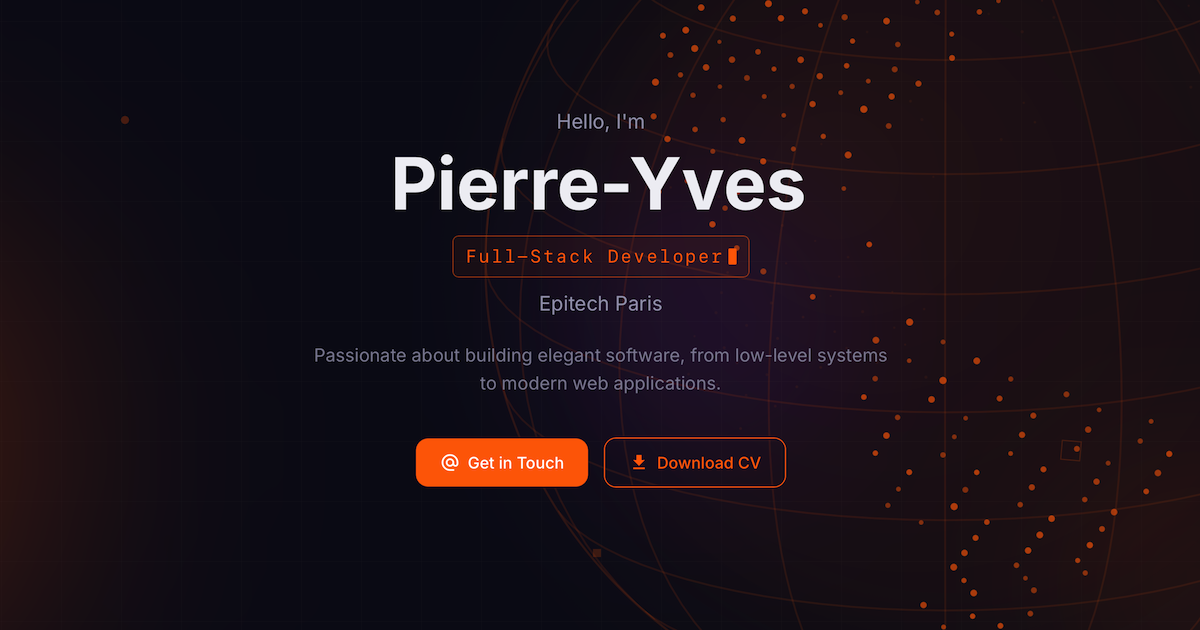
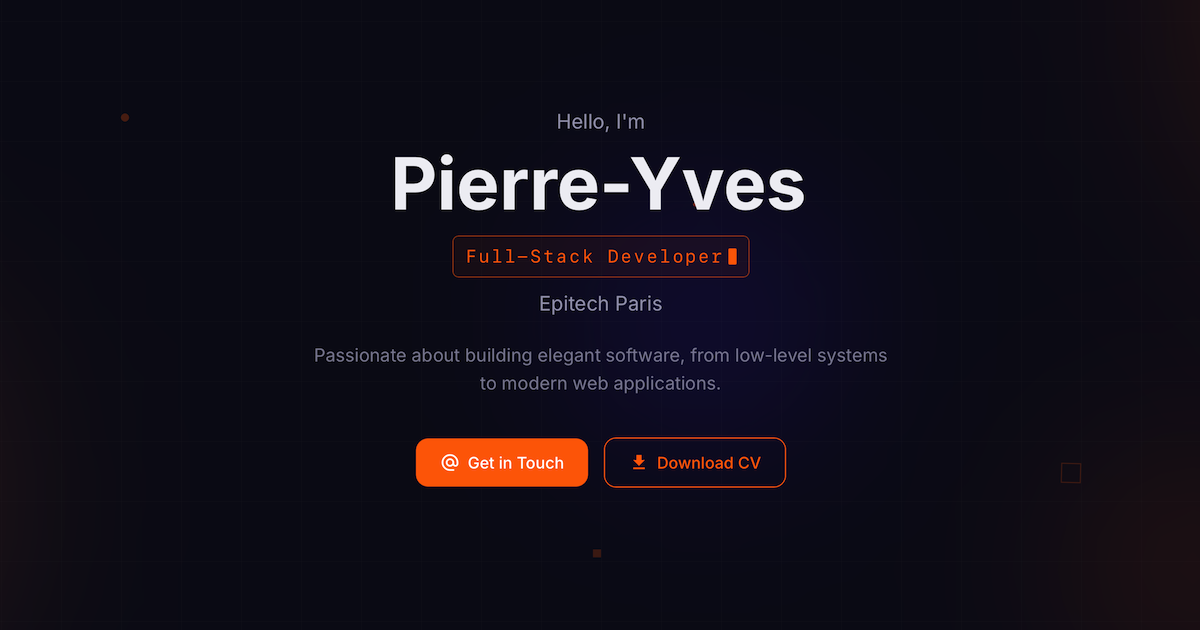
feat: removed globe for now

diff --git a/app/components/HeroBackground.vue b/app/components/HeroBackground.vue
@@ -2,12 +2,12 @@
   <div class="fixed top-0 left-0 w-full h-screen pointer-events-none overflow-hidden" style="z-index: 0;">
     <!-- Gradient orbs - responsive sizes, visible on all screens -->
     <div
-      class="absolute w-[300px] h-[300px] md:w-[400px] md:h-[400px] lg:w-[600px] lg:h-[600px] rounded-full blur-[70px] md:blur-[100px]"
-      style="background: radial-gradient(circle, rgb(255,138,51) 0%, transparent 70%); top: -5%; right: -15%; opacity: 0.3; animation: float-slow 8s ease-in-out infinite;"
+      class="absolute w-[350px] h-[350px] md:w-[500px] md:h-[500px] lg:w-[700px] lg:h-[700px] rounded-full blur-[80px] md:blur-[120px]"
+      style="background: radial-gradient(circle, rgb(255,107,0) 0%, transparent 70%); top: -5%; right: -15%; opacity: 0.4; animation: float-slow 8s ease-in-out infinite;"
     />
     <div
-      class="absolute w-[350px] h-[350px] md:w-[500px] md:h-[500px] lg:w-[700px] lg:h-[700px] rounded-full blur-[80px] md:blur-[120px]"
-      style="background: radial-gradient(circle, rgb(255,107,0) 0%, transparent 70%); bottom: 5%; left: -10%; opacity: 0.4; animation: float 10s ease-in-out infinite;"
+      class="absolute w-[300px] h-[300px] md:w-[400px] md:h-[400px] lg:w-[600px] lg:h-[600px] rounded-full blur-[70px] md:blur-[100px]"
+      style="background: radial-gradient(circle, rgb(255,138,51) 0%, transparent 70%); bottom: 5%; left: -10%; opacity: 0.3; animation: float 10s ease-in-out infinite;"
     />
     <div
       class="absolute w-[250px] h-[250px] md:w-[300px] md:h-[300px] lg:w-[400px] lg:h-[400px] rounded-full blur-[60px] md:blur-[80px]"

diff --git a/app/components/HeroSection.vue b/app/components/HeroSection.vue
@@ -1,7 +1,7 @@
 <template>
   <section id="hero" class="relative min-h-screen flex items-center justify-center px-4 overflow-hidden">
     <!-- Globe background -->
-    <GlobeCanvas />
+    <!-- <GlobeCanvas /> -->
 
     <div class="relative z-10 text-center max-w-3xl mx-auto">
       <!-- Greeting -->
